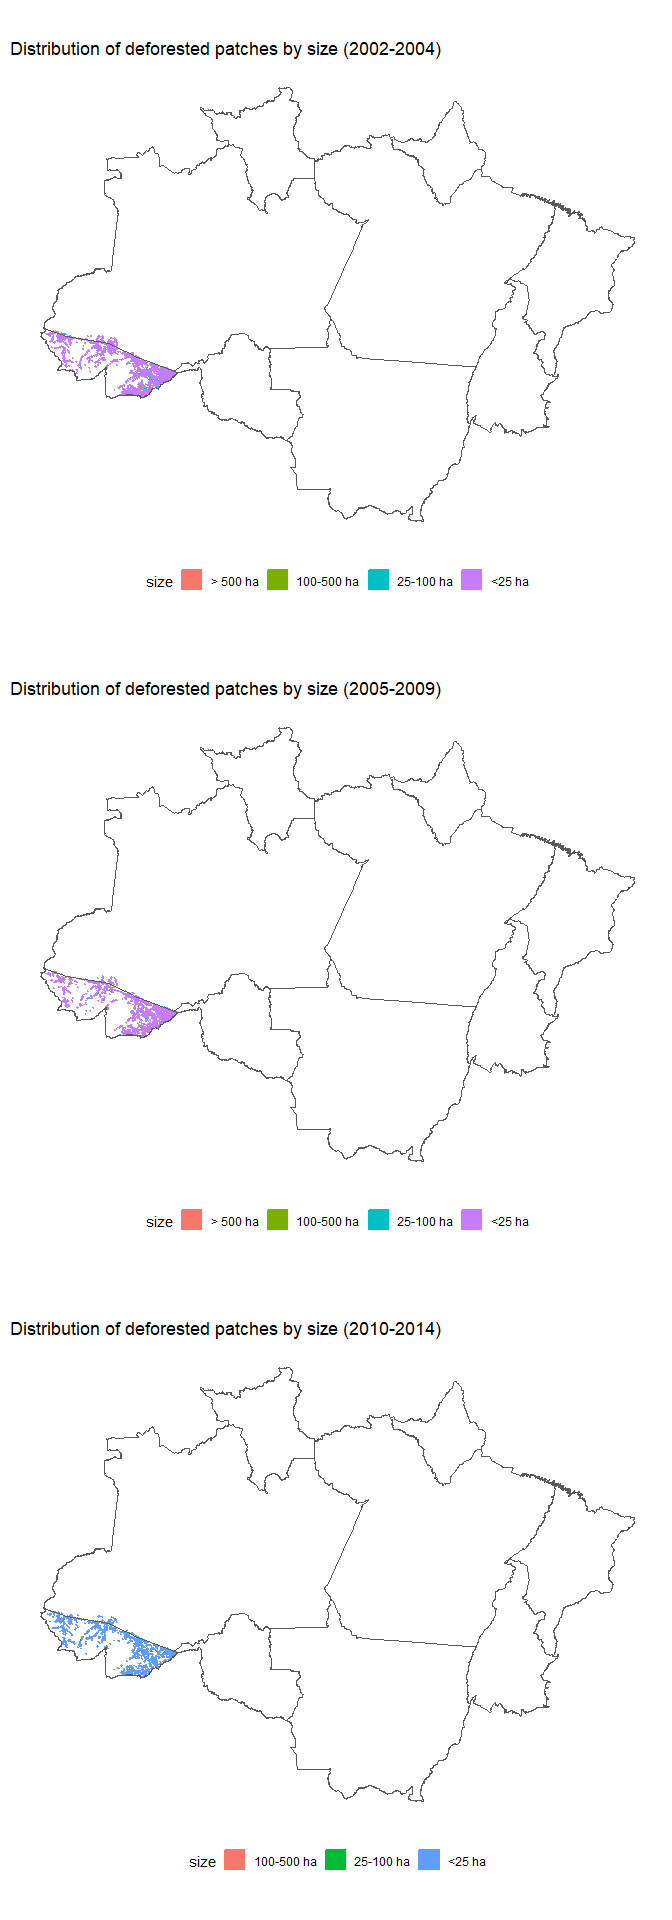
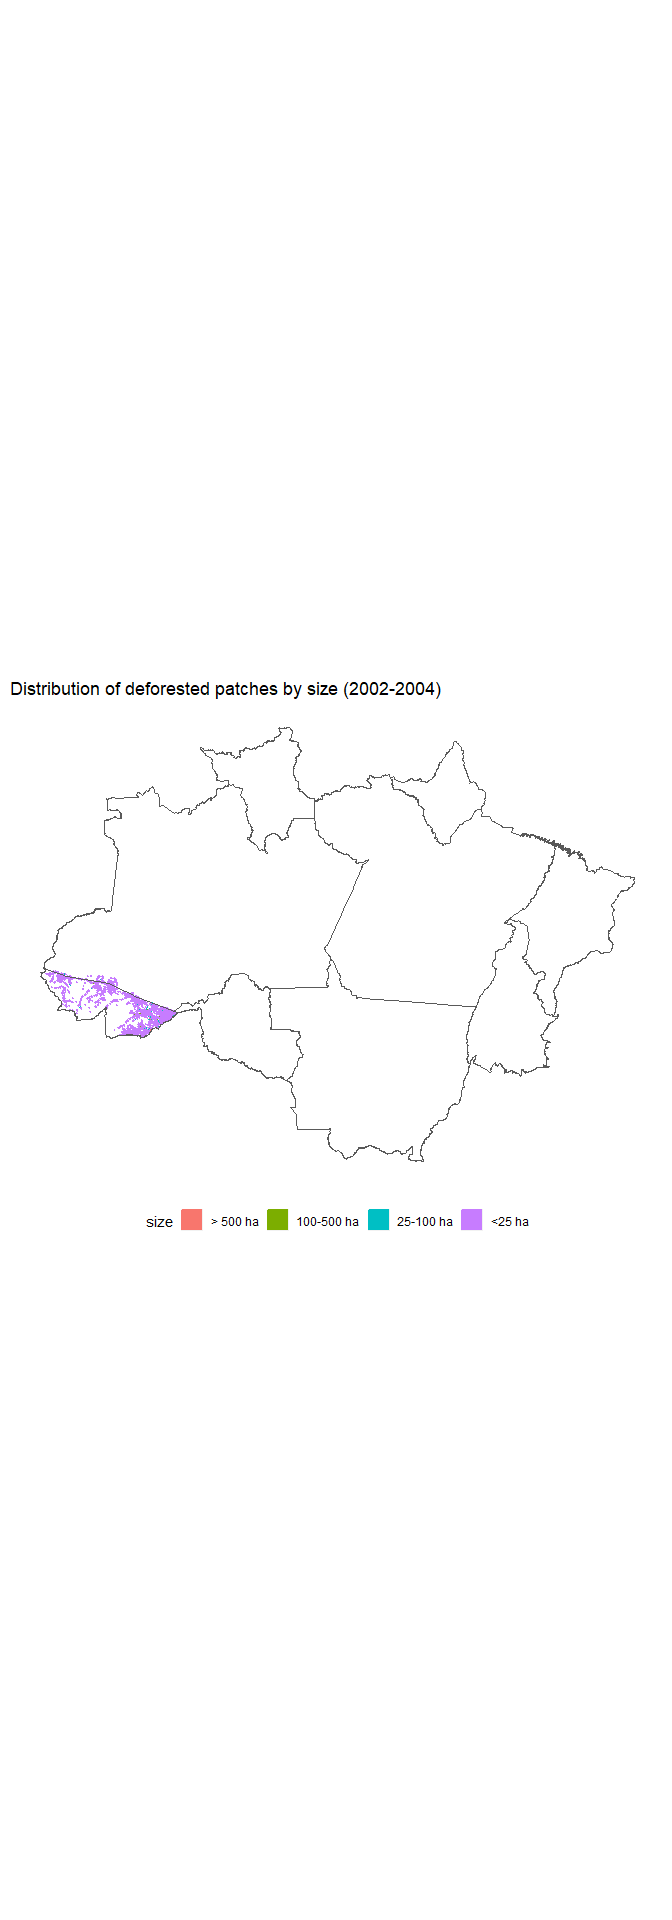
back to the original plot strategy

diff --git a/assignment/final-project.md b/assignment/final-project.md
@@ -5,6 +5,22 @@ December 9, 2018
 
 Following [Rosa et al. (2012)](https://doi.org/10.1111/j.1523-1739.2012.01901.x) and [Assunção et al. (2017)](https://doi.org/10.1016/j.landusepol.2017.04.022), I am going to analyze how the deforestation pattern changed from 2002 through 2014 in the Legal Amazon. I will focus on three main elements: the trends of the deforestation by polygon size, the heterogeneity across state patterns, and the spatial distribution of the polygons over time. In 2004, the Brazilian Government implemented a satellite-based system that provides near-real-time alerts of deforestation (DETER) to inform law enforcement operations against illegal deforestation of tropical forest in the Amazon. However, this system can only detect clearings of a contiguous area bigger than 25 ha, so patches below this threshold are invisible to DETER and this information is public. Thus, the hypothesis is that DETER created an incentive to deforesters strategically adapt their behavior to deforest in small patches and thus impacted the distribution of the polygons size. Also, in 2008, there was a second turning point on conservation policies with the creation of a blacklist that allowed law enforcement to better target their efforts on municipalities with high rates of recent deforestation. Identifying a causal relationship between these policies changes and the deforestation trends is out of the scope of this report, what we are aiming to show here is a descriptive analysis of the deforestation pattern, considering time, state, and cleared patch size variation.
 
+We will use the following spatial data (shapefiles):
+
+**1. [Annual Deforestation Polygons \[2002-2014\]](http://www.dpi.inpe.br/prodesdigital/dadosn/2014)**
+
+It contains the annual deforestation series of the Brazilian Amazon. Multiple shapefiles, one for each Landsat mosaic scene.
+
+We use the 2014 file because we can recover all the previous year information from this mask. The shapefiles contains polygons of other land cover categories besides deforestation that won't be used in this analysis, like forest and hydrography.
+
+CRS: LongLat (coordinate system), SAD69\_pre96\_BRonly (datum), not projected
+
+**2. [Legal Amazon and State Boundaries](http://www.dpi.inpe.br/amb_data/Shapefiles/UF_AmLeg_LLwgs84.zip)**
+
+Shapefile with the Legal Amazon Limits and the State Boundaries. Legal Amazon is geopoltical division of Brazil, includes the whole Brazilian Amazon Biome, part of the Cerrado and the Pantanal. More info about it: (<https://en.wikipedia.org/wiki/Legal_Amazon>)
+
+CRS: LongLat (coordinate system), WGS84 (datum), not projected
+
 ### Loading Libraries
 
 ``` r
@@ -19,7 +35,7 @@ library(stringr)      # for working with strings replacement
 
 ### Functions
 
-The function used in this analysis are stored in (<https://github.com/espm-157/final-project-individual-option-jpgmv1998/blob/master/assignment/functions.R>) an R script repository
+The function used in this analysis are stored in an [R script repository](https://github.com/espm-157/final-project-individual-option-jpgmv1998/blob/master/assignment/functions.R)
 
 ``` r
 source("functions.R")
@@ -27,17 +43,21 @@ source("functions.R")
 
 ### Data Download
 
-We will use the following spatial data (shapefiles):
+The downloading and cleaning process are long so there are two options:
 
-**1. Annual Deforestation Polygons \[2002-2014\]** **2. Legal Amazon and State Boundaries**
+**1. Download the cleaned data directly from the project github** \[default\]
+
+**2. Download data from original source and follow the whole process**
+
+Both options are available on this script, but as default the first one will be used. The second one is entirely available just below this code chunk.
 
 ``` r
+# 1. Download the cleaned data directly from the project github [default]
 # To avoid Travis from timing out and to allow a faster way to run this code I saved the necessary data >
-# after the downloading and cleaning and uploaded to GitHUb >
-# (https://github.com/espm-157/final-project-individual-option-jpgmv1998/releases/tag/data) >
+# after the downloading and cleaning and uploaded to [GitHUb](https://github.com/espm-157/final-project-individual-option-jpgmv1998/releases/tag/data) >
 # but for reproducibility purporses I kept all the necessary code here but their evaluation >
 # are conditioned to the non-existence of the data_clean folder which is created in this chunk. >
-# If you want to reproduce from scratch it is necessary to toggle of this chunk.
+# If you want to reproduce from scratch it is necessary to toggle off this chunk.
 if (!dir.exists(paths = clean_data_dir)) {
   # set url
   clean_data_url_index <- "https://github.com/espm-157/final-project-individual-option-jpgmv1998/releases/download/data/data_clean.zip"
@@ -56,6 +76,8 @@ if (!dir.exists(paths = clean_data_dir)) {
 #### Deforestation
 
 ``` r
+# 2. Download data from original source and follow the whole process
+
 if (!dir.exists(paths = clean_data_dir)) {
   # web address setup
   raw_data_url_index <- "http://www.dpi.inpe.br/prodesdigital/dadosn/2014/"
@@ -87,6 +109,8 @@ if (!dir.exists(paths = clean_data_dir)) {
 #### Legal Aamazon - State Boundaries
 
 ``` r
+# 2. Download data from original source and follow the whole process
+
 if (!dir.exists(paths = clean_data_dir)) {
   if (!file.exists(file.path(raw_data_dir, "UF_AmLeg_LLwgs84"))) { # only download data if there is not a local copy
     raw_data_url_index_2 <- "http://www.dpi.inpe.br/amb_data/Shapefiles/UF_AmLeg_LLwgs84.zip" # set url 
@@ -143,6 +167,8 @@ if (!dir.exists(paths = clean_data_dir)) {
 #### Legal Aamazon - State Boundaries
 
 ``` r
+# 2. Download data from original source and follow the whole process
+
 if (!dir.exists(paths = clean_data_dir)) {
   if (!any(list.files(clean_data_dir) == "la_clean.Rdata")) { # check if def_clean.Rdata already exists locally
   
@@ -185,12 +211,12 @@ load(file.path(clean_data_dir, "def_clean.Rdata"))
 
 load(file.path(clean_data_dir, "la_clean.Rdata"))
 
-gc() # free memory
+gc(verbose = F) # free memory
 ```
 
     ##             used  (Mb) gc trigger   (Mb)  max used  (Mb)
-    ## Ncells  11757099 627.9   17524874  936.0  11770915 628.7
-    ## Vcells 130791505 997.9  185741186 1417.1 130813660 998.1
+    ## Ncells  11757136 627.9   17525772  936.0  11770943 628.7
+    ## Vcells 130792265 997.9  185746959 1417.2 130814419 998.1
 
 ### Deforestation Trends by size of cleared patch
 
@@ -228,12 +254,12 @@ panel.background = element_blank(), axis.line = element_line(colour = "black"), 
 ![](final-project_files/figure-markdown_github/unnamed-chunk-8-1.png)
 
 ``` r
-gc() # free memory
+gc(verbose = F) # free memory
 ```
 
     ##             used   (Mb) gc trigger   (Mb)  max used   (Mb)
-    ## Ncells  11905568  635.9   17524874  936.0  13573781  725.0
-    ## Vcells 131093814 1000.2  222969423 1701.2 158566376 1209.8
+    ## Ncells  11905603  635.9   17525772  936.0  13573807  725.0
+    ## Vcells 131094573 1000.2  222976350 1701.2 158567163 1209.8
 
 **Fig. 2 - (a) Percentage and (b) area of deforested patches of different sizes in the Brazilian Amazon from 2002 through 2009. - (Rosa et al., 2012)** <br> ![](../images/deforestation_rate_percentage_byYear_bySize_rosa_et_al_2012.png)
 
@@ -302,12 +328,13 @@ grid.arrange(panel_a, panel_b, ncol = 1)
 ![](final-project_files/figure-markdown_github/unnamed-chunk-9-1.png)
 
 ``` r
-gc() # free memory
+rm(panel_a, panel_b) # remove unnecessary objects
+gc(verbose = F) # free memory
 ```
 
     ##             used   (Mb) gc trigger   (Mb)  max used   (Mb)
-    ## Ncells  11991786  640.5   17524874  936.0  15157389  809.5
-    ## Vcells 131265470 1001.5  222969423 1701.2 222961671 1701.1
+    ## Ncells  11990779  640.4   17525772  936.0  15232142  813.5
+    ## Vcells 131264061 1001.5  222976350 1701.2 222963989 1701.1
 
 ### State Heterogeneity
 
@@ -327,12 +354,12 @@ cbind(la_clean, st_coordinates(st_centroid(la_clean))) %>%
 ![](final-project_files/figure-markdown_github/unnamed-chunk-10-1.png)
 
 ``` r
-gc() # free memory
+gc(verbose = F) # free memory
 ```
 
     ##             used   (Mb) gc trigger   (Mb)  max used   (Mb)
-    ## Ncells  11949237  638.2   17524874  936.0  15157389  809.5
-    ## Vcells 131259103 1001.5  222969423 1701.2 222961671 1701.1
+    ## Ncells  11946932  638.1   17525772  936.0  15232142  813.5
+    ## Vcells 131254813 1001.4  222976350 1701.2 222963989 1701.1
 
 #### Plot of proportion of polygons by cleared patch through time by state.
 
@@ -366,12 +393,12 @@ panel.background = element_blank(), axis.line = element_line(colour = "black"), 
 ![](final-project_files/figure-markdown_github/unnamed-chunk-11-1.png)
 
 ``` r
-gc() # free memory
+gc(verbose = F) # free memory
 ```
 
     ##             used   (Mb) gc trigger   (Mb)  max used   (Mb)
-    ## Ncells  12074586  644.9   17524874  936.0  17524874  936.0
-    ## Vcells 131424000 1002.7  222969423 1701.2 222961671 1701.1
+    ## Ncells  12072301  644.8   17525772  936.0  17525772  936.0
+    ## Vcells 131419732 1002.7  222976350 1701.2 222963989 1701.1
 
 #### Maps of the proportion of small polygons across years
 
@@ -407,12 +434,12 @@ ggplot() +
 ![](final-project_files/figure-markdown_github/unnamed-chunk-12-1.png)
 
 ``` r
-gc() # free memory
+gc(verbose = F) # free memory
 ```
 
     ##             used   (Mb) gc trigger   (Mb)  max used   (Mb)
-    ## Ncells  12008080  641.4   17524874  936.0  17524874  936.0
-    ## Vcells 132456607 1010.6  222969423 1701.2 222961671 1701.1
+    ## Ncells  12005788  641.2   17525772  936.0  17525772  936.0
+    ## Vcells 132452332 1010.6  222976350 1701.2 222963989 1701.1
 
 #### Maps of the ratio of total deforestation and state area across years
 
@@ -444,12 +471,12 @@ ggplot() +
 ![](final-project_files/figure-markdown_github/unnamed-chunk-13-1.png)
 
 ``` r
-gc() # free memory
+gc(verbose = F) # free memory
 ```
 
     ##             used   (Mb) gc trigger   (Mb)  max used   (Mb)
-    ## Ncells  12008023  641.3   17524874  936.0  17524874  936.0
-    ## Vcells 132455654 1010.6  222969423 1701.2 222961671 1701.1
+    ## Ncells  12005731  641.2   17525772  936.0  17525772  936.0
+    ## Vcells 132451380 1010.6  222976350 1701.2 222963989 1701.1
 
 ``` r
 rm(def_clean_df)
@@ -462,21 +489,44 @@ rm(def_clean_df)
 ![](../images/deforestation_map_bySize_rosa_et_al_2012.png)
 
 ``` r
-year_initial <- list(2002, 2005, 2010)
-year_final   <- list(2004, 2009, 2014)
+#year_initial <- list(2002, 2005, 2010)
+#year_final   <- list(2004, 2009, 2014)
 
-list_maps <- map2(.x = year_initial, .y = year_final, map_polyg_distrib)
+#list_maps <- map2(.x = year_initial, .y = year_final, map_polyg_distrib, data_clean = data_clean, la_clean = la_clean)
 
-grid.arrange(list_maps[[1]], list_maps[[2]], list_maps[[3]], ncol = 1)
+#grid.arrange(list_maps[[1]], list_maps[[2]], list_maps[[3]], ncol = 1)
+
+ def_clean %>%
+  filter(prodes_year_increment >= 2002 & prodes_year_increment <= 2004) %>%
+  mutate(size = ifelse(area < 25, "<25 ha", NA)) %>%
+  mutate(size = ifelse(area >= 25 & area < 100, "25-100 ha", size)) %>%
+  mutate(size = ifelse(area >= 100 & area < 500, "100-500 ha", size)) %>%
+  mutate(size = ifelse(area >= 500, "> 500 ha", size)) %>%
+  group_by(state_uf, size) %>%
+  st_union(by_feature = T) %>%
+  ungroup() %>%
+  mutate(size = factor(size, levels = c("> 500 ha", "100-500 ha", "25-100 ha", "<25 ha"))) %>%
+  filter(state_uf == "AC") %>%
+  ggplot() +
+  geom_sf(aes(col = size, fill = size), size = 1.05) +
+  geom_sf(data = la_clean, fill = NA) +
+  ggtitle(paste0("Distribution of deforested patches by size (", 2002,"-", 2004, ")")) +
+  theme(panel.grid.major = element_line(colour = "White"),
+        panel.grid.minor = element_line(colour = "white"),
+        panel.background = element_blank(),
+        strip.background = element_rect(fill = NA),
+        axis.line = element_blank(), axis.ticks = element_blank(),
+        axis.title = element_blank(), axis.text = element_blank(),
+        legend.position = "bottom")
 ```
 
 ![](final-project_files/figure-markdown_github/unnamed-chunk-14-1.png)
 
 ``` r
 rm(def_clean, la_clean)
-gc()
+gc(verbose = F) # free memory
 ```
 
     ##            used  (Mb) gc trigger   (Mb)  max used   (Mb)
-    ## Ncells  6643557 354.9   21822721 1165.5  27278402 1456.9
-    ## Vcells 23933981 182.7  214114645 1633.6 222969276 1701.2
+    ## Ncells  4057840 216.8   21816353 1165.2  27270442 1456.4
+    ## Vcells 12325297  94.1  178381080 1361.0 222963989 1701.1
